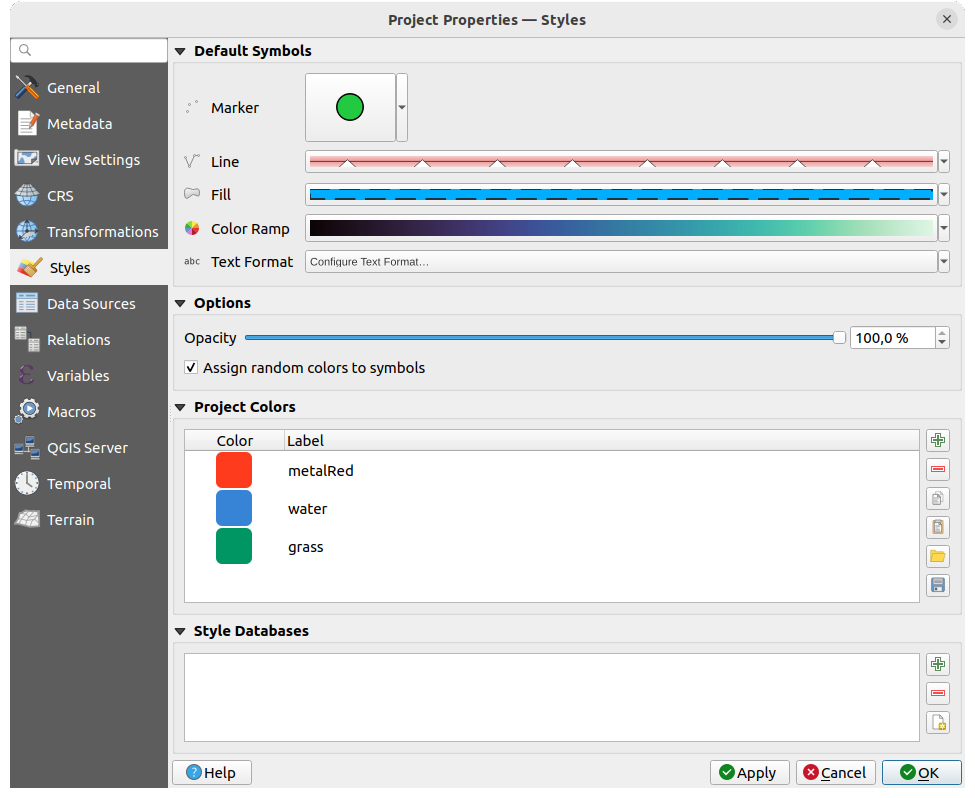
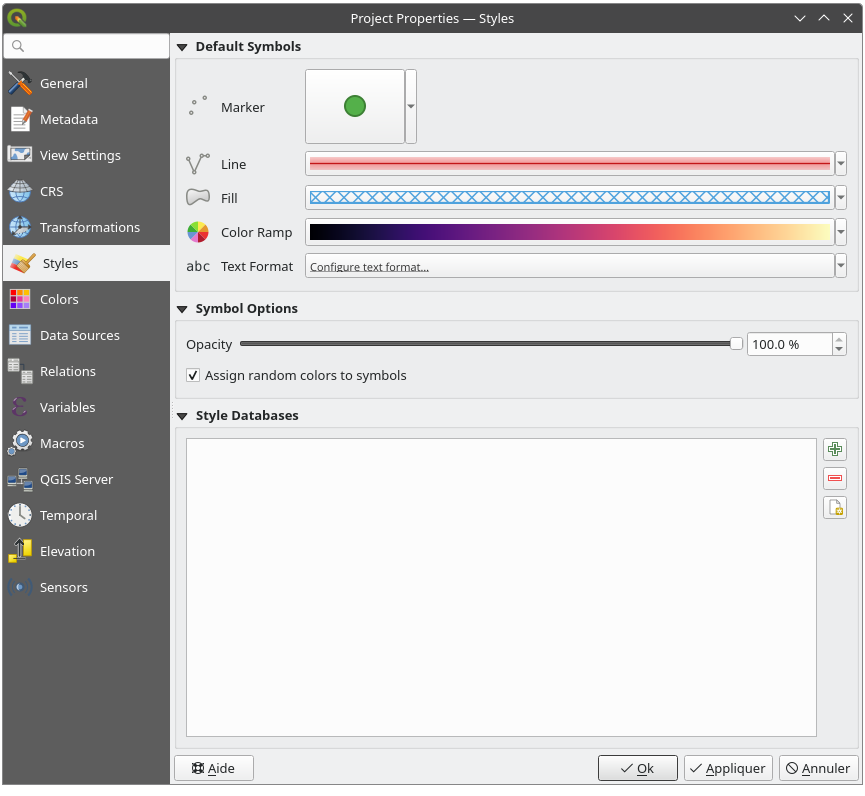
Update the Styles properties section
moving up the Style database section

Changed region(s): [[0.0, 0.0, 0.9988, 0.995], [0.7179, 0.8141, 0.9988, 0.995], [0.4682, 0.1206, 0.4994, 0.1508]]

diff --git a/docs/user_manual/introduction/qgis_configuration.rst b/docs/user_manual/introduction/qgis_configuration.rst
@@ -1844,6 +1844,13 @@ Under |symbology| :guilabel:`Styles` tab, you can configure symbols and colors
 inherent to the project, allowing to safely share the project among different
 machines.
 
+.. _figure_default_styles:
+
+.. figure:: img/project_styles.png
+   :align: center
+
+   Styles tab
+
 Default symbols
 ...............
 
@@ -1855,27 +1862,42 @@ Ramp` and :guilabel:`Text Format` (e.g. when enabling labeling).
 Any of these items can be reset using the :guilabel:`Clear` entry from
 the corresponding drop-down widget.
 
-Options
-.......
+Symbol options
+..............
 
-In the :guilabel:`Options` group, you can:
+In the :guilabel:`Symbol options` group, you can:
 
 * Apply a default :guilabel:`Opacity` to new layers
 * |checkbox| :guilabel:`Assign random colors to symbols`, modifying the symbols
   fill colors, hence avoiding same rendering for all layers.
 
-.. _figure_default_styles:
-
-.. figure:: img/project_styles.png
-   :align: center
-
-   Styles tab
-
+.. _style_database:
 .. _project_colors:
 
+Style Database
 Project Colors
 ..............
 
+A style database in QGIS is a structured repository designed to store symbols,
+text formats, and other styling elements. It serves as a centralized location
+where you can organize and manage your symbology resources efficiently.
+You can create a dedicated style database for a specific client, housing
+symbols tailored to that client's need. This ensures a clean and organized
+approach, without cluttering the default style database.
+In multi-user environments, it's possible to store project-specific styles
+in a shared location. By linking a project to these styles, all users within
+the project gain access to common symbology, eliminating the need for
+manual import or updates to individual local style database.
+Storing symbols in a project file offers a practical solution, preventing users
+from overcrowding their global style database with project-specific symbology.
+This approach guarantees that other users working on the same project immediately
+have access to all the necessary symbology upon loading the project.
+
+In the :guilabel:`Style Database` section you can choose to
+|symbologyAdd| :guilabel:`Add` or |symbologyRemove| :guilabel:`Remove`
+style database or you can |newPage| :guilabel:`Create new style database`.
+When you add or remove a style database in this section, the changes will
+be automatically reflected in the |symbology| :guilabel:`Symbology Properties`.
 There is also an additional section where you can define specific colors for the
 running project. Like the :ref:`global colors <colors_options>`, you can:
 
@@ -1907,32 +1929,6 @@ These colors are identified as :guilabel:`Project colors` and listed as part of
   #. Repeat steps 2 and 3 as much as needed
   #. Update the project color once and the change is reflected EVERYWHERE
      it's in use.
-
-.. _style_database: 
-
-Style Database
-..............
-
-A style database in QGIS is a structured repository designed to store symbols,
-text formats, and other styling elements. It serves as a centralized location 
-where you can organize and manage your symbology resources efficiently.
-You can create a dedicated style database for a specific client, housing 
-symbols tailored to that client's need. This ensures a clean and organized 
-approach, without cluttering the default style database.
-In multi-user environments, it's possible to store project-specific styles 
-in a shared location. By linking a project to these styles, all users within
-the project gain access to common symbology, eliminating the need for 
-manual import or updates to individual local style database.
-Storing symbols in a project file offers a practical solution, preventing users
-from overcrowding their global style database with project-specific symbology. 
-This approach guarantees that other users working on the same project immediately
-have access to all the necessary symbology upon loading the project.
-
-In the :guilabel:`Style Database` section you can choose to 
-|symbologyAdd| :guilabel:`Add` or |symbologyRemove| :guilabel:`Remove` 
-style database or you can |newPage| :guilabel:`Create new style database`.
-When you add or remove a style database in this section, the changes will
-be automatically reflected in the |symbology| :guilabel:`Symbology Properties`.
 
 
 .. _project_data_source_properties:
